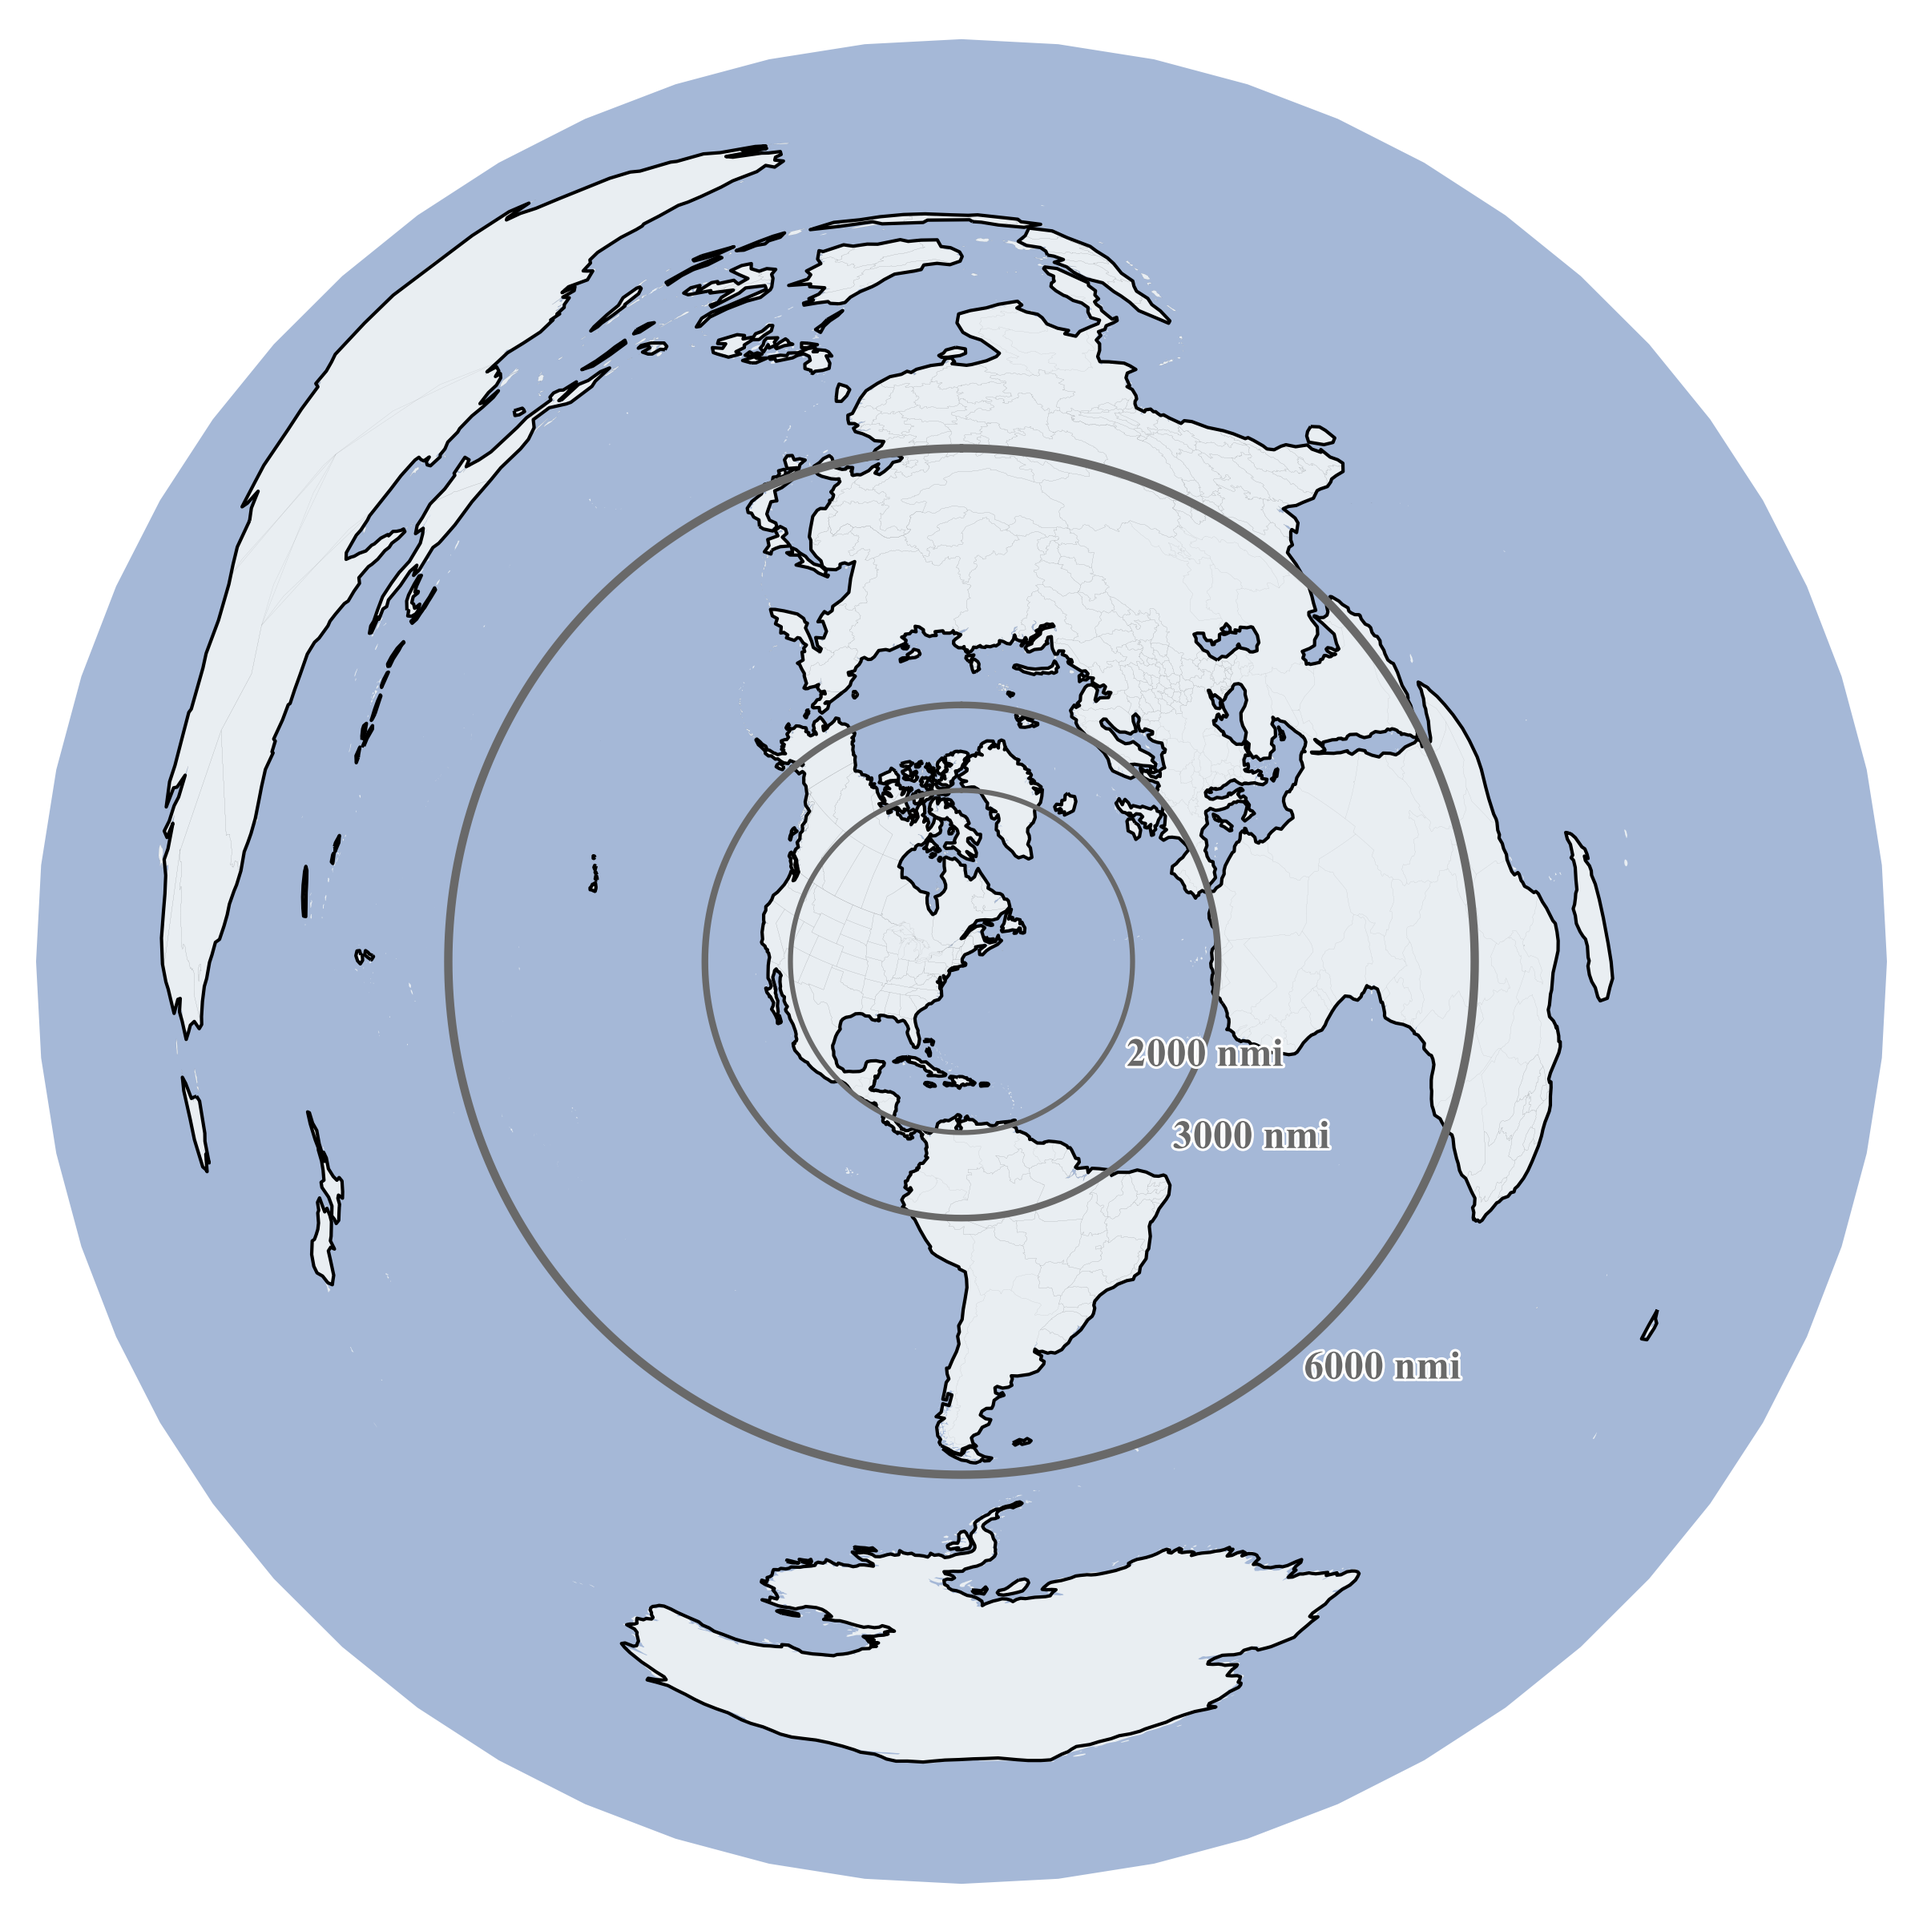
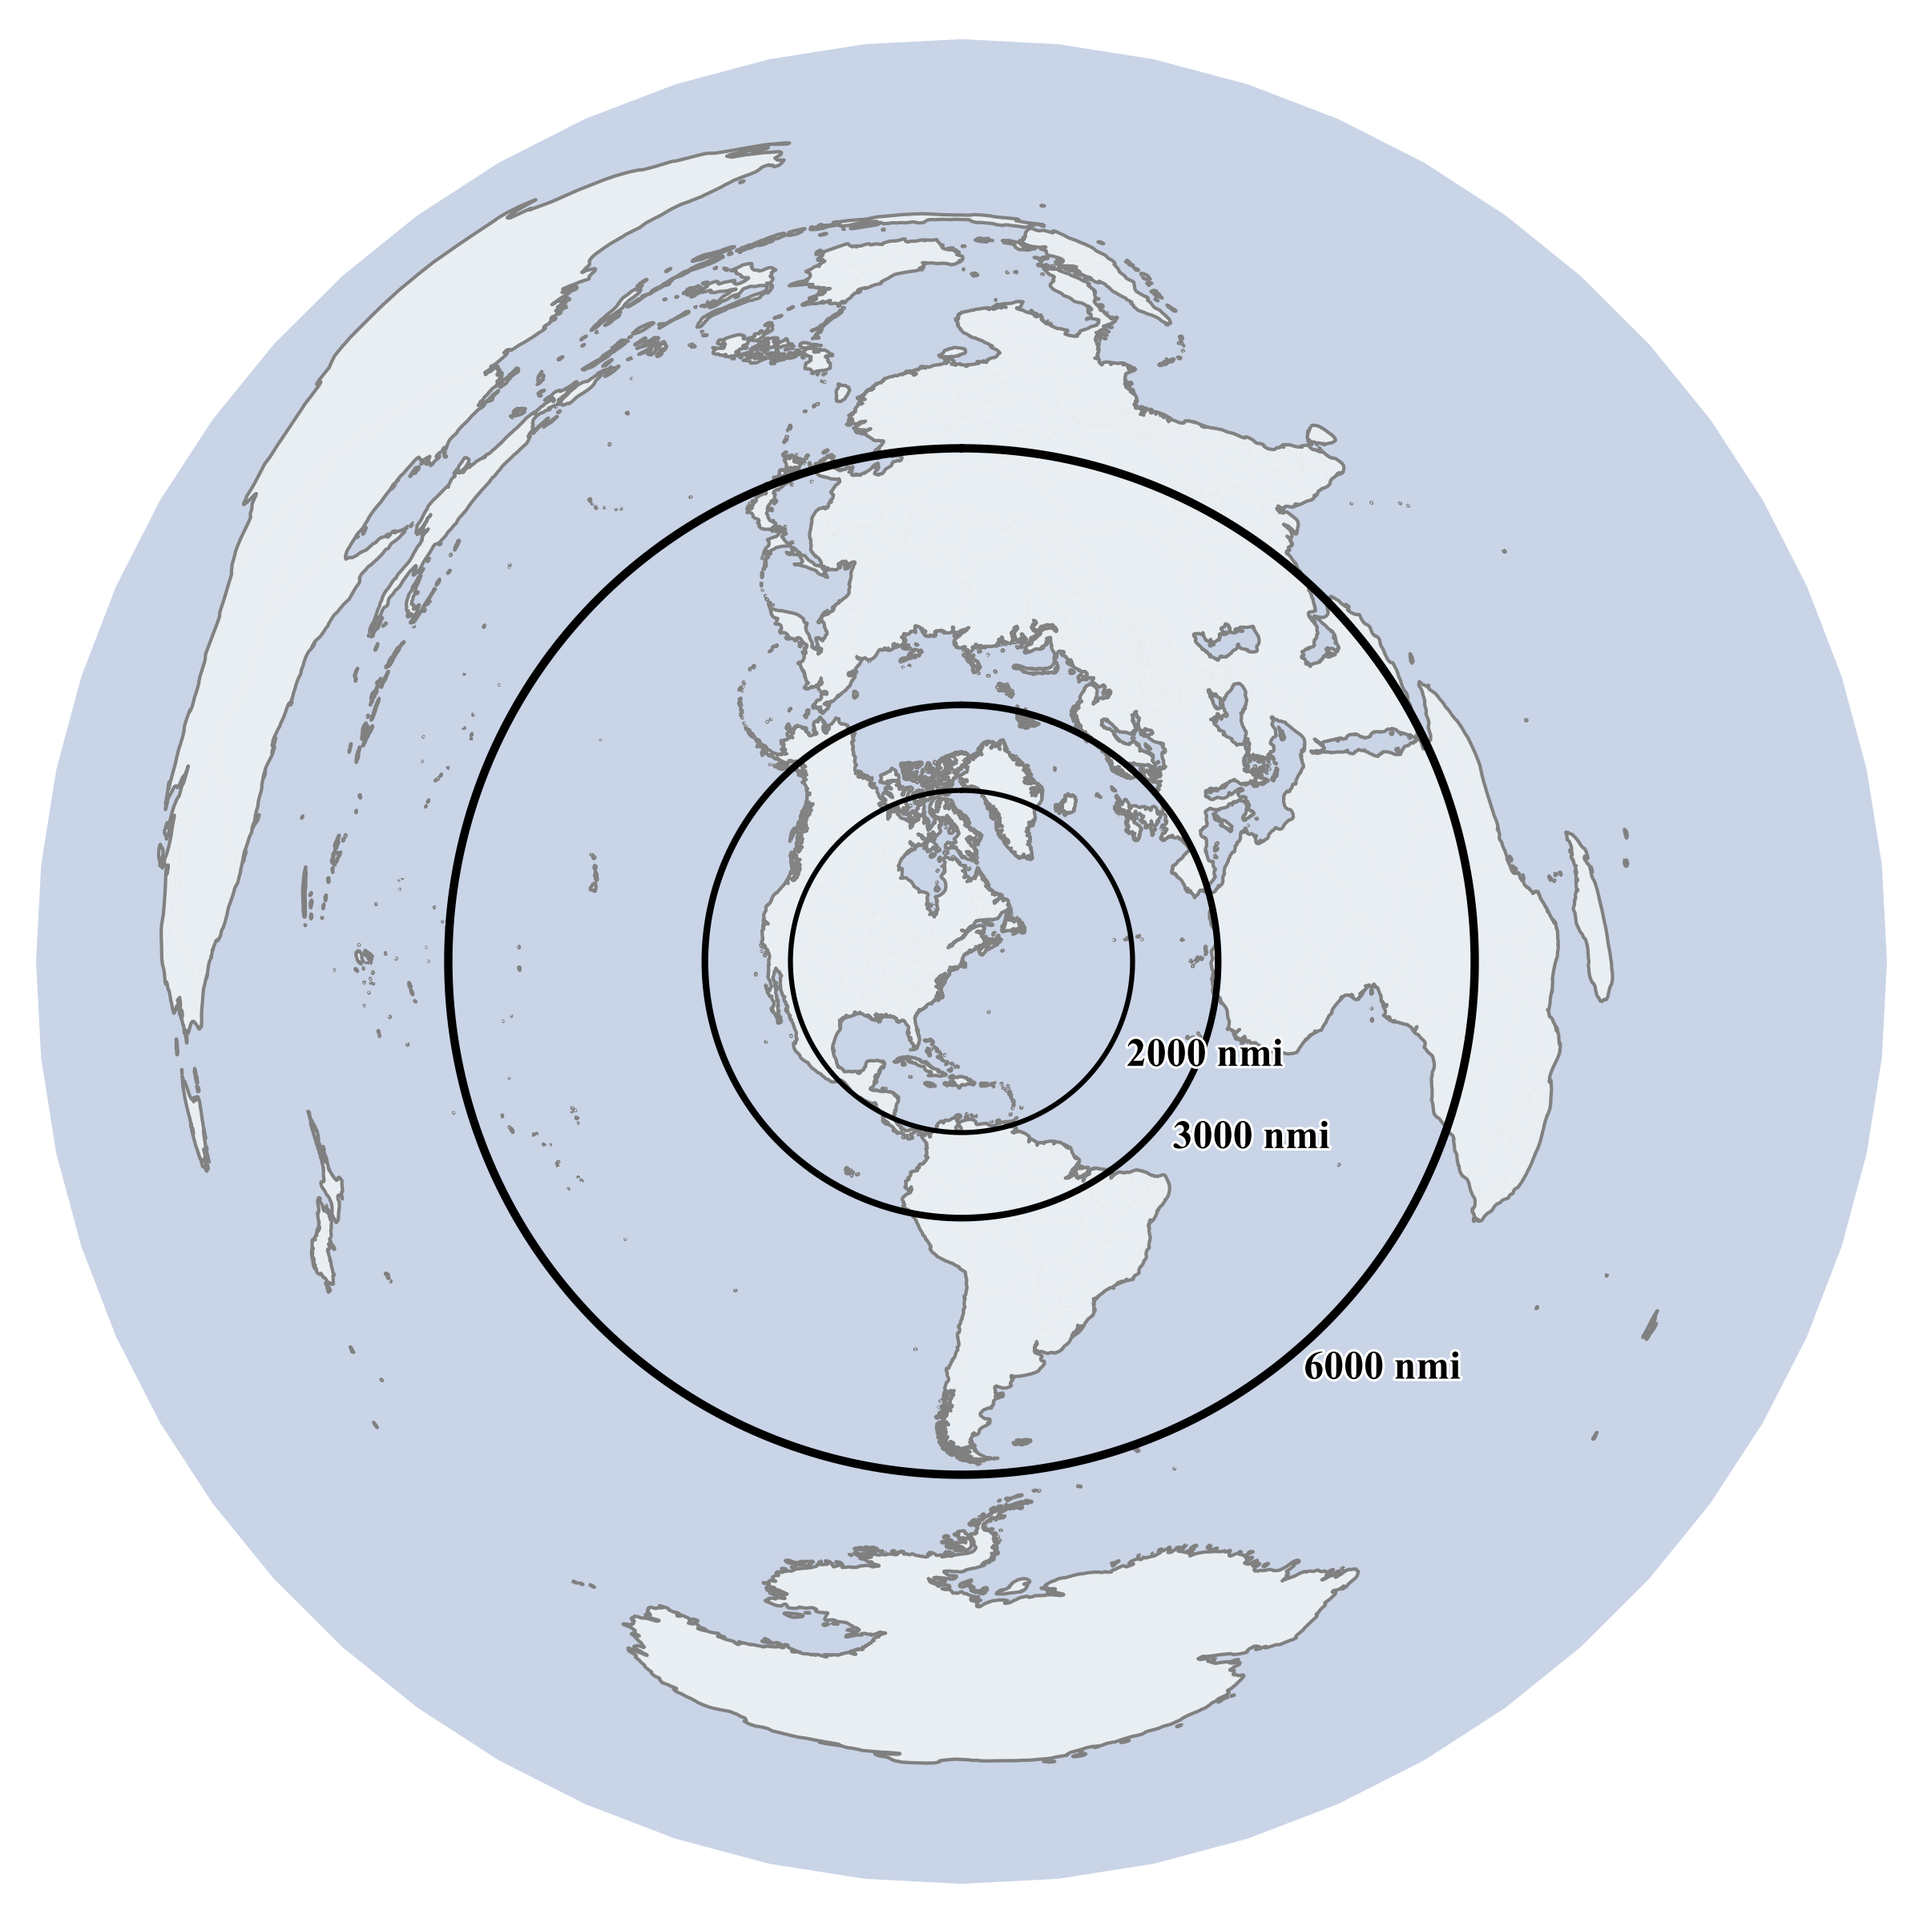
improve coastlines

diff --git a/mission_points/Range_Diagram/plotGlobe.py b/mission_points/Range_Diagram/plotGlobe.py
@@ -30,9 +30,9 @@ RINGS_NMI = {
 #}
 
 COLORS = {
-    "2000 nmi": "dimgray",
-    "3000 nmi": "dimgray",
-    "6000 nmi": "dimgray",
+    "2000 nmi": "black",
+    "3000 nmi": "black",
+    "6000 nmi": "black",
 }
 WIDTHS = {k: 2.5 for k in RINGS_NMI}
 
@@ -56,13 +56,13 @@ proj = ccrs.AzimuthalEquidistant(central_longitude=LON0, central_latitude=LAT0)
 fig = plt.figure(figsize=(8, 8))
 ax = plt.axes(projection=proj)
 ax.set_global()
-ax.coastlines()
+ax.coastlines(resolution="50m", linewidth=1.0, color="gray")
 
-ax.add_feature(cfeature.BORDERS.with_scale('50m'), linewidth=0.01)
-ax.add_feature(cfeature.STATES.with_scale('50m'), linewidth=0.01)
+ax.add_feature(cfeature.BORDERS.with_scale('50m'), linewidth=0.01, edgecolor = "lightgray")
+ax.add_feature(cfeature.STATES.with_scale('50m'), linewidth=0.01, edgecolor="lightgray")
 ax.add_feature(cfeature.OCEAN.with_scale('50m'), facecolor="C0", alpha = 0.3, edgecolor="none")
 ax.add_feature(cfeature.LAND.with_scale("50m"),  facecolor="#e9eef2", edgecolor="none")
-ax.add_feature(cfeature.COASTLINE.with_scale("50m"), linewidth=0.01, edgecolor="none")
+#ax.add_feature(cfeature.COASTLINE.with_scale("50m"), linewidth=0.01, edgecolor="none", color = "lightgray")
 
 # Basemap
 #ax.add_feature(cfeature.OCEAN.with_scale("110m"), facecolor="#91a2b1", edgecolor="none")
